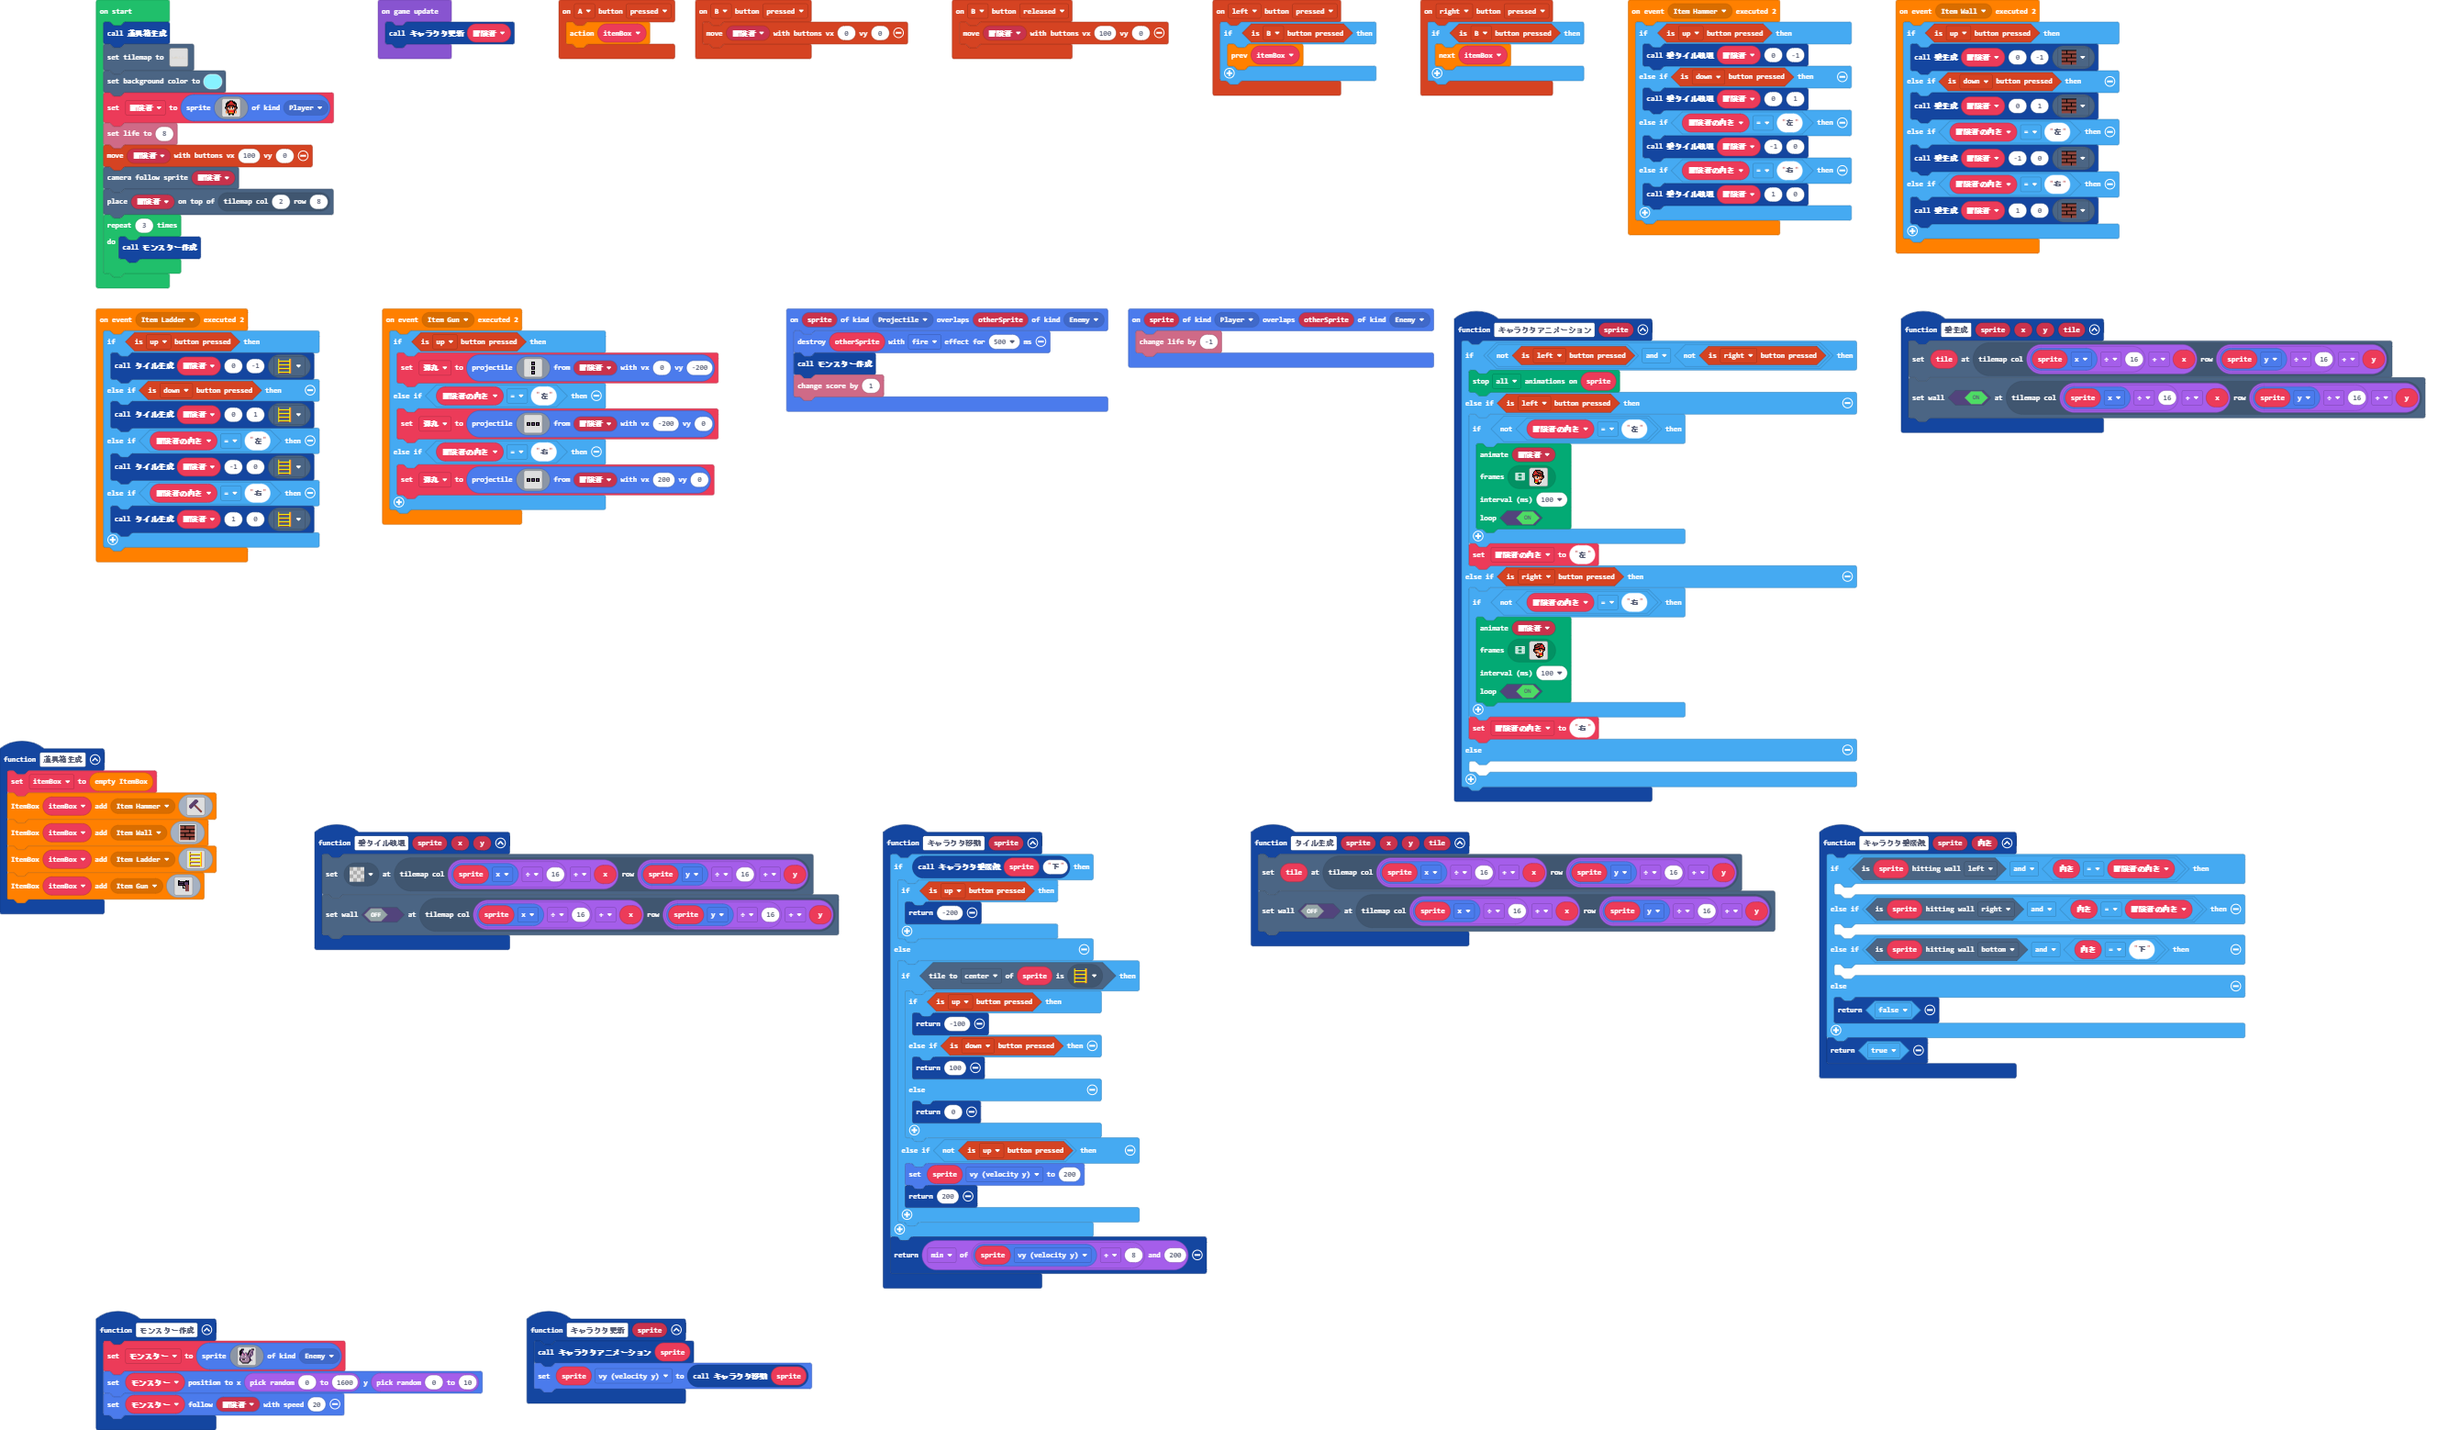
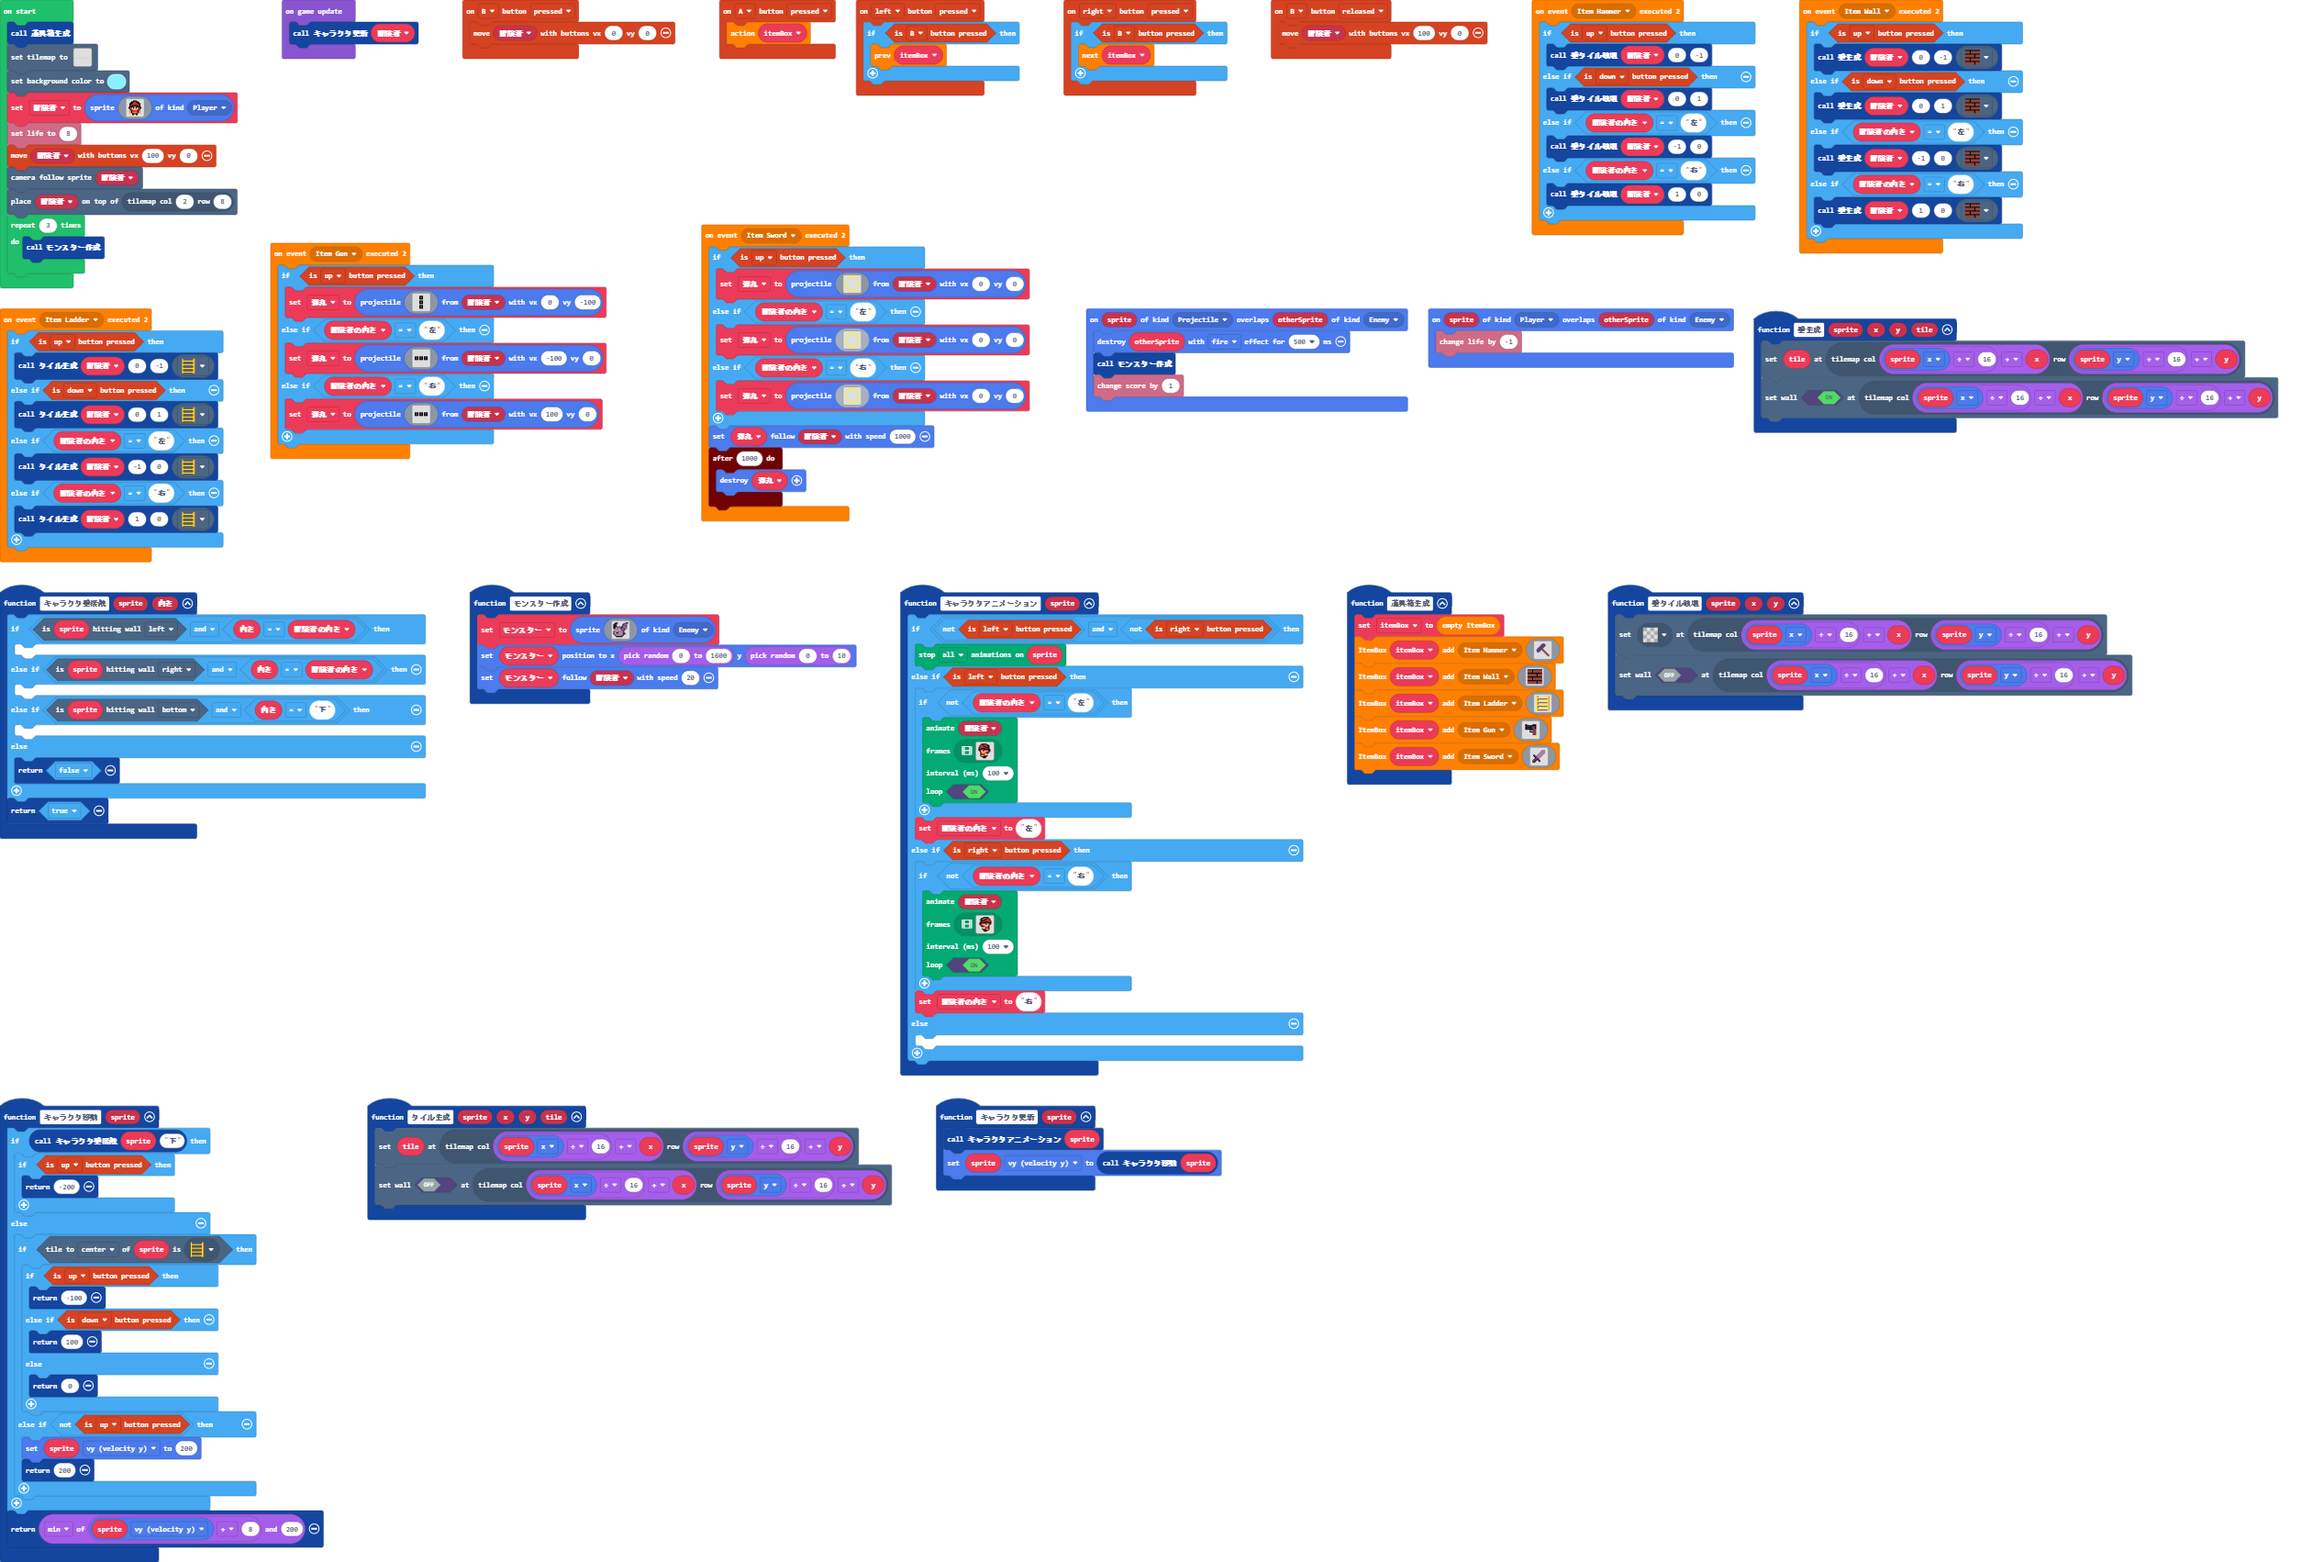
Update pxt.json, main.blocks, main.ts, images.g.jres, images.g.ts, itembox.ts

diff --git a/main.ts b/main.ts
@@ -51,7 +51,21 @@ function 道具箱生成 () {
     itemBox.add(ItemKind.Wall, assets.tile`壁タイル`)
     itemBox.add(ItemKind.Ladder, assets.tile`ハシゴタイル`)
     itemBox.add(ItemKind.Gun, assets.image`ハンドガン`)
+    itemBox.add(ItemKind.Sword, assets.image`myImage`)
 }
+Items.onEvent(ItemKind.Sword, function () {
+    if (controller.up.isPressed()) {
+        弾丸 = sprites.createProjectileFromSprite(assets.image`myImage0`, 冒険者, 0, 0)
+    } else if (冒険者の向き == "左") {
+        弾丸 = sprites.createProjectileFromSprite(assets.image`myImage0`, 冒険者, 0, 0)
+    } else if (冒険者の向き == "右") {
+        弾丸 = sprites.createProjectileFromSprite(assets.image`myImage0`, 冒険者, 0, 0)
+    }
+    弾丸.follow(冒険者, 1000)
+    timer.after(1000, function () {
+        弾丸.destroy()
+    })
+})
 function キャラクタ更新 (sprite: Sprite) {
     キャラクタアニメーション(sprite)
     sprite.vy = キャラクタ移動(sprite)
@@ -74,11 +88,11 @@ Items.onEvent(ItemKind.Hammer, function () {
 })
 Items.onEvent(ItemKind.Gun, function () {
     if (controller.up.isPressed()) {
-        弾丸 = sprites.createProjectileFromSprite(assets.image`弾丸0`, 冒険者, 0, -200)
+        弾丸 = sprites.createProjectileFromSprite(assets.image`弾丸0`, 冒険者, 0, -100)
     } else if (冒険者の向き == "左") {
-        弾丸 = sprites.createProjectileFromSprite(assets.image`弾丸`, 冒険者, -200, 0)
+        弾丸 = sprites.createProjectileFromSprite(assets.image`弾丸`, 冒険者, -100, 0)
     } else if (冒険者の向き == "右") {
-        弾丸 = sprites.createProjectileFromSprite(assets.image`弾丸`, 冒険者, 200, 0)
+        弾丸 = sprites.createProjectileFromSprite(assets.image`弾丸`, 冒険者, 100, 0)
     }
 })
 function 壁生成 (sprite: Sprite, x: number, y: number, tile: Image) {

diff --git a/images.g.ts b/images.g.ts
@@ -98,6 +98,41 @@ namespace myImages {
 . c c f . . . . . . . . . . . . 
 . . . . . . . . . . . . . . . . 
 `;
+            case "image6":
+            case "myImage0":return img`
+..........55555555555...........
+........55...........55.........
+......55..55555555555..55.......
+.....5..55...........55..5......
+....5..5...............5..5.....
+...5..5.................5..5....
+..5..5...................5..5...
+..5.5.....................5.5...
+.5.5.......................5.5..
+.5.5.......................5.5..
+5.5.........................5.5.
+5.5.........................5.5.
+5.5.........................5.5.
+5.5.........................5.5.
+5.5.........................5.5.
+5.5...........5.............5.5.
+5.5.........................5.5.
+5.5.........................5.5.
+5.5.........................5.5.
+5.5.........................5.5.
+5.5.........................5.5.
+.5.5.......................5.5..
+.5.5.......................5.5..
+..5.5.....................5.5...
+..5..5...................5..5...
+...5..5.................5..5....
+....5..5...............5..5.....
+.....5..55...........55..5......
+......55..55555555555..55.......
+........55...........55.........
+..........55555555555...........
+................................
+`;
         }
         return null;
     })

diff --git a/itembox.ts b/itembox.ts
@@ -221,6 +221,7 @@ class Listener {
 namespace Items {
     let _listeners : Listener[] = [];
 
+
     /**
      * Create a ItemBox and automtically set it to a variable
      */
